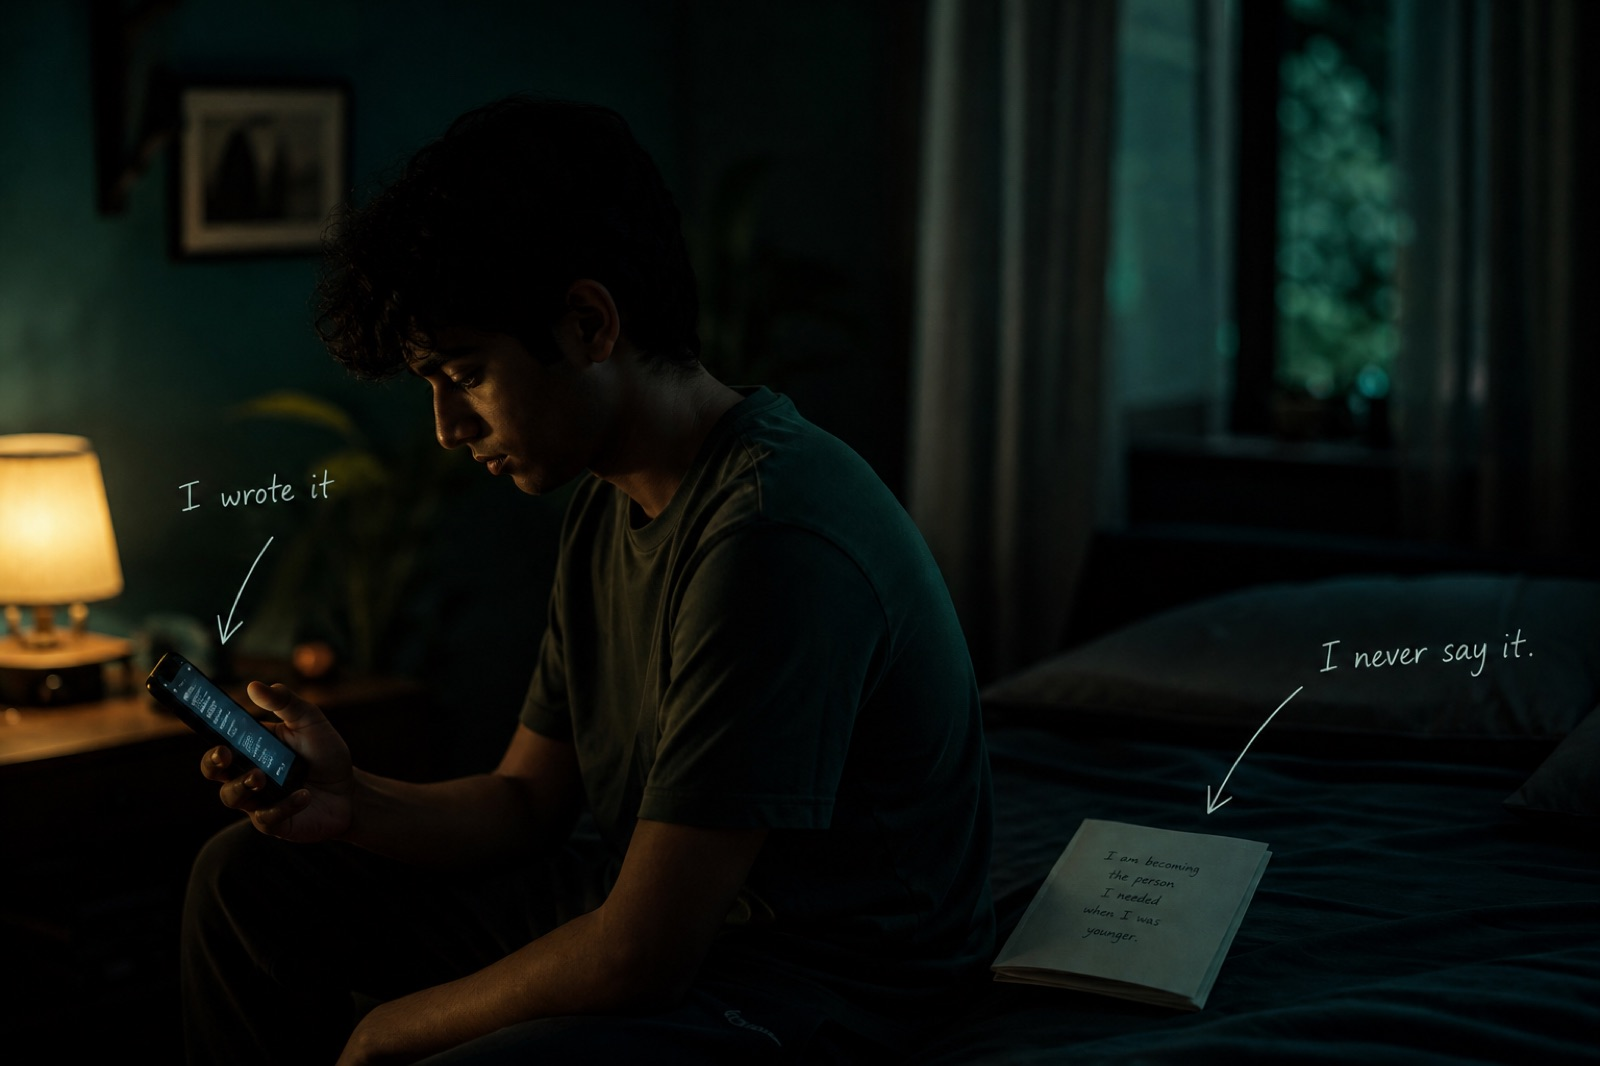
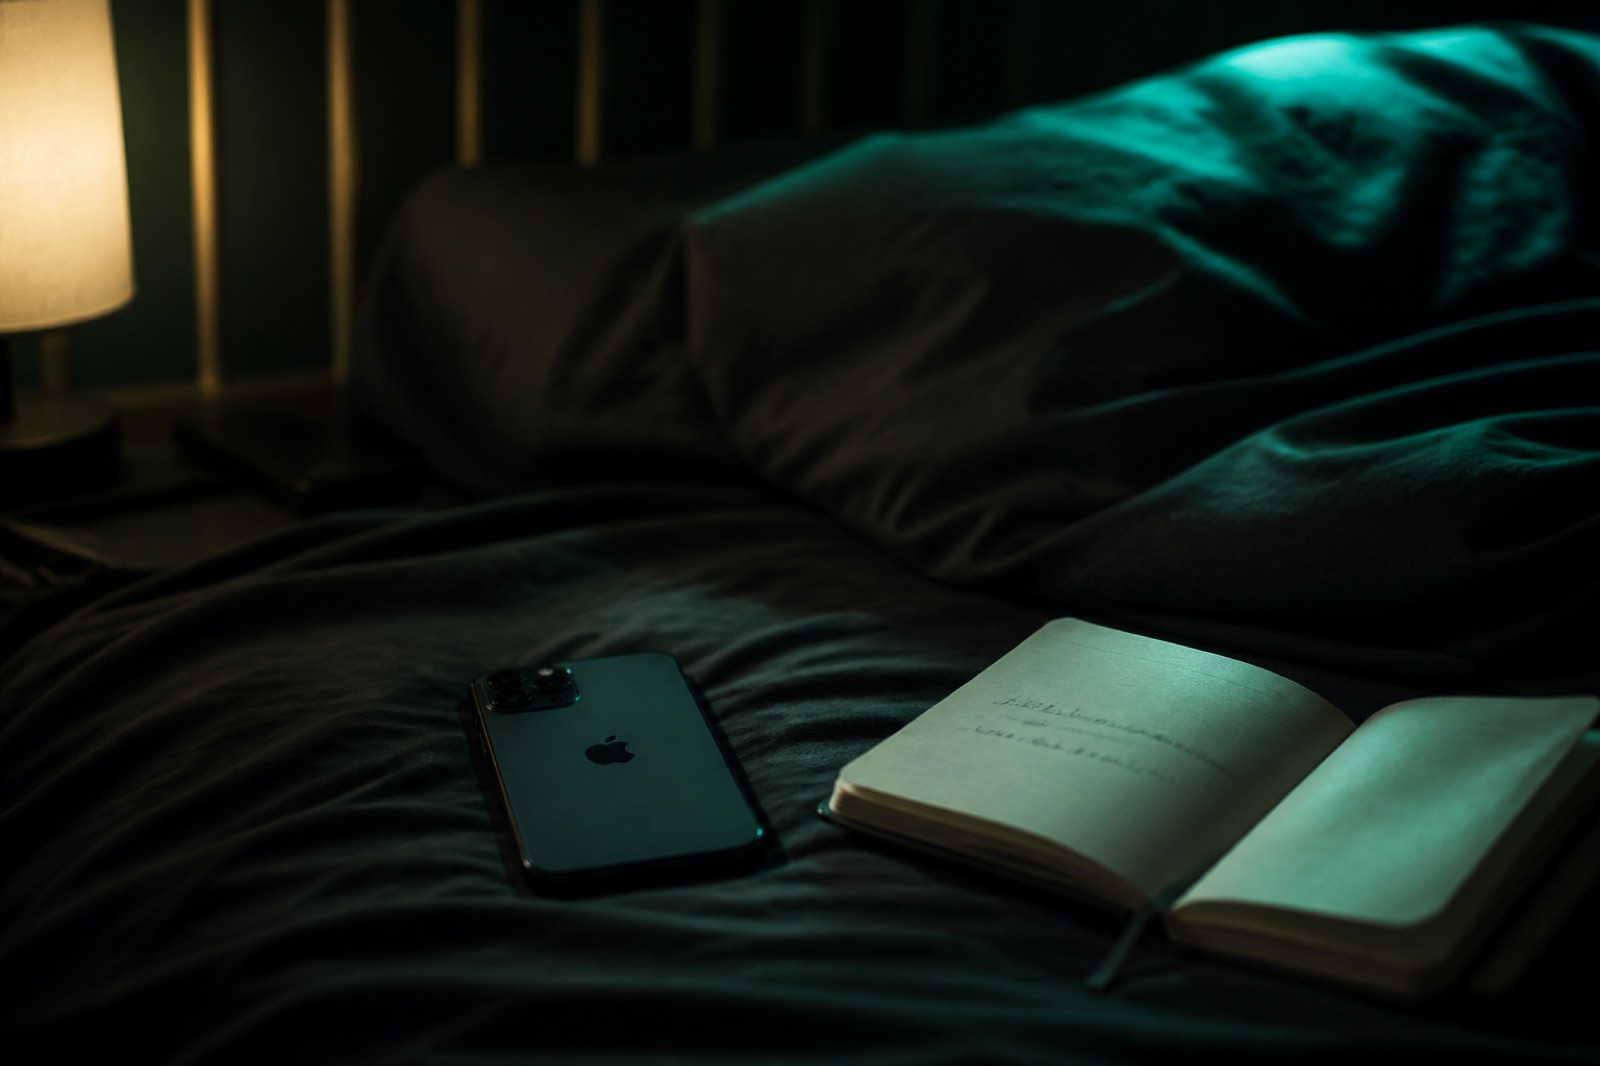
Replace the hero still: no overlay type, just phone and notebook.

diff --git a/affirmation.html b/affirmation.html
@@ -28,7 +28,7 @@
     <p class="lede">Reminders lose. The apps you already open do not. One sentence — gratitude or the line you meant to keep — then the feed. Two or three times a day, because that’s already how often you go there.</p>
   </div>
   <figure class="hero-still">
-    <img src="img/hero-unsaid.jpg" width="1600" height="1200" alt="He already wrote the sentence. He is not saying it.">
+    <img src="img/hero-unsaid.jpg" width="1600" height="1200" alt="A phone face-down beside an unsaid sentence in a notebook">
   </figure>
 </section>
 
